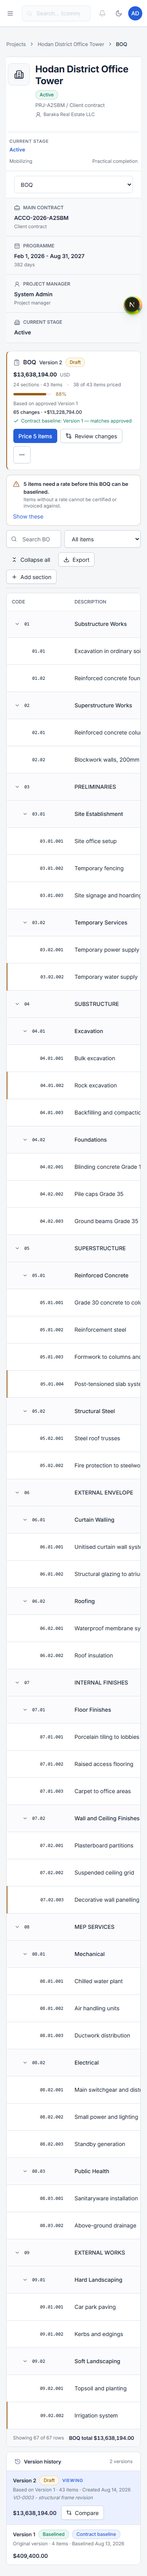
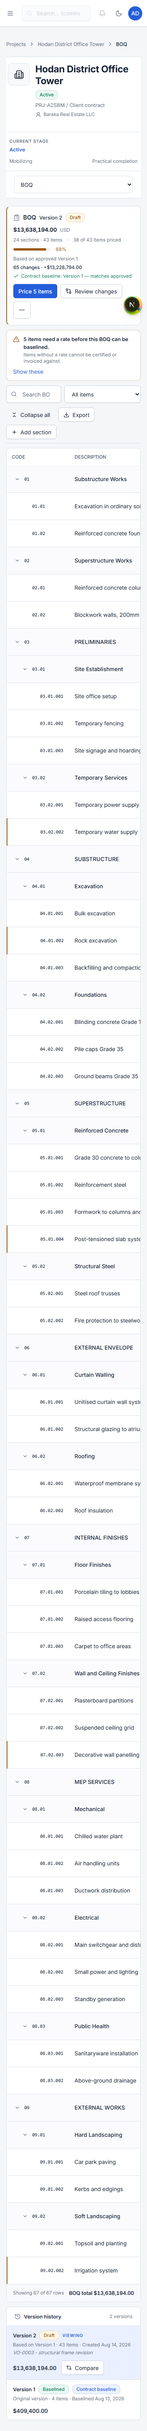
feat(projects): green for completed stages, project tiles on Overview only
Both changes are in the project shell, raised in review and approved before touching, because
they affect Overview, Commercial and Team as well as BOQ.

The lifecycle strip was brand blue from Draft up to the current stage, so the colour said
"brand" rather than "done" — and blue is the interactive colour everywhere else in the
product. Completed stages now carry a green circle, tick and connector; the current stage
keeps the blue ring so "where am I" still reads instantly; future stages stay grey.

The four project tiles now render on Overview only. They are the project's headline facts and
Overview is where they are read; above a working tab they were a second tile row competing
with the one the feature brought, which on BOQ meant eight visually identical boxes and no
complete BOQ row above the fold. Identity, lifecycle and the tab bar stay everywhere, so
neither which project nor where it stands is lost.

Measured at 1440x900, first BOQ data row: 1042px originally, 862px after the decision-clarity
pass, 765px now — one complete row above the fold. Two shell tests guard the rule.

88 test files / 1303 tests, typecheck, lint and build green. Captures refreshed.

diff --git a/apps/web/src/components/layout/project-workspace-shell.tsx b/apps/web/src/components/layout/project-workspace-shell.tsx
@@ -88,6 +88,7 @@ export function ProjectWorkspaceShell({ id, children }: ProjectWorkspaceShellPro
   }
 
   const commercialActive = commercialTabs.some((tab) => isActive(tab.href));
+  const isOverview = isActive(`/projects/${id}`);
 
   // The last breadcrumb used to read "Overview" on every tab, so the BOQ page announced
   // itself as the overview. Derive it from whichever tab is actually active.
@@ -265,7 +266,15 @@ export function ProjectWorkspaceShell({ id, children }: ProjectWorkspaceShellPro
           </div>
         </nav>
 
-        {project ? (
+        {/* Overview only.
+
+            These four are the project's headline facts, and Overview is where someone goes
+            to read them. On a working tab they are a second, competing tile row above the
+            one the feature brought — on BOQ that meant eight visually identical boxes and no
+            complete BOQ row above the fold at 1440x900. The context is one tab away, and the
+            lifecycle strip and header above still say which project this is and where it is
+            in its life. */}
+        {project && isOverview ? (
           <dl className="grid border-t border-border bg-surface-subtle sm:grid-cols-2 lg:grid-cols-4">
             <SummaryItem
               icon={BriefcaseBusiness}
@@ -443,44 +452,57 @@ function LifecycleStrip({ stages, current, t }: LifecycleStripProps) {
           <span>{current < stages.length - 1 ? t(`status.${stages[current + 1]}`) : ''}</span>
         </div>
       </div>
+      {/* Green for stages already passed, blue for the one in progress, grey for the rest.
+          The whole strip used to be brand blue up to the current stage, which meant the
+          colour said "brand" rather than "done" — and blue is the interactive colour
+          everywhere else in the product. See the semantics table in frontend-theme.md. */}
       <div className="hidden min-w-max items-start sm:flex">
-        {stages.map((stage, index) => (
-          <div key={stage} className="flex items-start">
-            <div className="flex w-24 flex-col items-center gap-1.5 lg:w-28">
-              <div
-                title={t(`status.${stage}`)}
-                className={cn(
-                  'flex h-5 w-5 items-center justify-center rounded-full',
-                  index === current && 'ring-4 ring-brand-primary/15',
-                  index <= current ? 'bg-brand-primary' : 'border border-border bg-surface',
-                )}
-              >
-                {index < current ? (
-                  <Check size={11} strokeWidth={3} className="text-white" aria-hidden="true" />
-                ) : null}
-                {index === current ? (
-                  <span className="h-1.5 w-1.5 rounded-full bg-white" aria-hidden="true" />
-                ) : null}
+        {stages.map((stage, index) => {
+          const complete = index < current;
+          const active = index === current;
+
+          return (
+            <div key={stage} className="flex items-start">
+              <div className="flex w-24 flex-col items-center gap-1.5 lg:w-28">
+                <div
+                  title={t(`status.${stage}`)}
+                  className={cn(
+                    'flex h-5 w-5 items-center justify-center rounded-full',
+                    active && 'bg-brand-primary ring-4 ring-brand-primary/15',
+                    complete && 'bg-success',
+                    !complete && !active && 'border border-border bg-surface',
+                  )}
+                >
+                  {complete ? (
+                    <Check size={11} strokeWidth={3} className="text-white" aria-hidden="true" />
+                  ) : null}
+                  {active ? (
+                    <span className="h-1.5 w-1.5 rounded-full bg-white" aria-hidden="true" />
+                  ) : null}
+                </div>
+                <span
+                  className={cn(
+                    'text-center text-micro font-medium leading-4',
+                    active && 'text-brand-primary',
+                    complete && 'text-success',
+                    !complete && !active && 'text-muted-foreground',
+                  )}
+                >
+                  {t(`status.${stage}`)}
+                </span>
               </div>
-              <span
-                className={cn(
-                  'text-center text-micro font-medium leading-4',
-                  index === current ? 'text-brand-primary' : 'text-muted-foreground',
-                )}
-              >
-                {t(`status.${stage}`)}
-              </span>
+              {index < stages.length - 1 ? (
+                <div
+                  className={cn(
+                    'mt-2.5 h-px w-4 lg:w-6',
+                    // The connector belongs to the stage behind it: green once passed.
+                    complete ? 'bg-success' : 'bg-border',
+                  )}
+                />
+              ) : null}
             </div>
-            {index < stages.length - 1 ? (
-              <div
-                className={cn(
-                  'mt-2.5 h-px w-4 lg:w-6',
-                  index < current ? 'bg-brand-primary' : 'bg-border',
-                )}
-              />
-            ) : null}
-          </div>
-        ))}
+          );
+        })}
       </div>
     </>
   );

diff --git a/apps/web/src/components/layout/project-workspace-shell.test.tsx b/apps/web/src/components/layout/project-workspace-shell.test.tsx
@@ -11,8 +11,10 @@ const useProject = vi.fn();
 const useProjectWorkspaceSummary = vi.fn();
 const useProjectWorkspaceGuidance = vi.fn();
 
+let pathname = '/projects/project-1';
+
 vi.mock('next/navigation', () => ({
-  usePathname: () => '/projects/project-1',
+  usePathname: () => pathname,
   useRouter: () => ({ push }),
 }));
 
@@ -93,6 +95,7 @@ beforeEach(() => {
     isError: false,
   });
   useProjectWorkspaceGuidance.mockReturnValue({ data: [], isPending: false, isError: false });
+  pathname = '/projects/project-1';
 });
 
 describe('ProjectWorkspaceShell', () => {
@@ -129,5 +132,37 @@ describe('ProjectWorkspaceShell', () => {
       'Team',
     ]);
     expect(screen.queryByText('Inventory')).not.toBeInTheDocument();
+  });
+
+  /**
+   * The project's headline facts belong to Overview. Repeating them above every working tab
+   * gave the BOQ two visually identical tile rows — the project's and its own — and pushed
+   * the first BOQ row below the fold at 1440x900. The lifecycle strip and the header above
+   * still say which project this is and where it stands.
+   */
+  it('shows the project summary tiles on Overview', () => {
+    renderWithProviders(
+      <ProjectWorkspaceShell id="project-1">
+        <p>Workspace content</p>
+      </ProjectWorkspaceShell>,
+    );
+
+    expect(screen.getByText('Main contract')).toBeInTheDocument();
+    expect(screen.getByText('Programme')).toBeInTheDocument();
+  });
+
+  it('hides them on a working tab, where the feature brings its own', () => {
+    pathname = '/projects/project-1/boq';
+
+    renderWithProviders(
+      <ProjectWorkspaceShell id="project-1">
+        <p>Workspace content</p>
+      </ProjectWorkspaceShell>,
+    );
+
+    expect(screen.queryByText('Main contract')).not.toBeInTheDocument();
+    expect(screen.queryByText('Programme')).not.toBeInTheDocument();
+    // Identity and lifecycle stay: losing those would be losing context, not decluttering.
+    expect(screen.getByRole('heading', { name: 'Baraka Tower' })).toBeInTheDocument();
   });
 });

diff --git a/design-qa.md b/design-qa.md
@@ -456,3 +456,37 @@ blue-shifted. That is the product's grey ramp, not a BOQ choice: `--foreground` 
 `text-foreground/55` only produced an off-system value on one screen and did not change the
 hue. These are back on `text-muted-foreground`, the sanctioned token. A warmer ramp is a
 token decision for the whole product.
+
+## Shell pass — completed stages read green, and the BOQ clears the fold
+
+Two faults raised in the review were in the project shell rather than the BOQ, so they were
+put to the owner before being touched. Both approved.
+
+**Completed lifecycle stages are green.** The strip was brand blue from Draft up to the
+current stage, which made the colour say "brand" rather than "done" — and blue is the
+interactive colour everywhere else. Now: green circle, tick and connector for a stage already
+passed; blue ring for the stage in progress; grey ahead. Applies to every project tab.
+
+**The four project tiles show on Overview only.** MAIN CONTRACT / PROGRAMME / PROJECT MANAGER
+/ CURRENT STAGE are the project's headline facts and Overview is where they are read. Above a
+working tab they were a second, competing tile row — on BOQ that meant eight visually
+identical boxes. Identity, lifecycle and tabs stay on every tab, so nothing about *which*
+project or *where it stands* is lost; the facts are one tab away.
+
+Guarded by two tests in `project-workspace-shell.test.tsx` — present on Overview, absent on
+BOQ, heading still rendered — so the rule cannot revert silently.
+
+### Fold, measured at 1440×900
+
+| Pass | First data row | Complete rows above the fold |
+|---|---|---|
+| Original rebuild | 1042px | 0 |
+| Decision-clarity pass | 862px | 0 |
+| **Shell pass** | **765px** | **1** |
+
+Evidence: `docs/qa/boq/boq-fold-1440x900.png` (BOQ, tiles absent) and
+`docs/qa/boq/project-overview-tiles-retained.png` (Overview, tiles present).
+
+All five captures re-taken: `dir` and `data-theme` verified off the DOM, document overflow
+0px, console clean. 88 test files / 1303 tests, typecheck, lint on the touched files, and the
+production build green.
